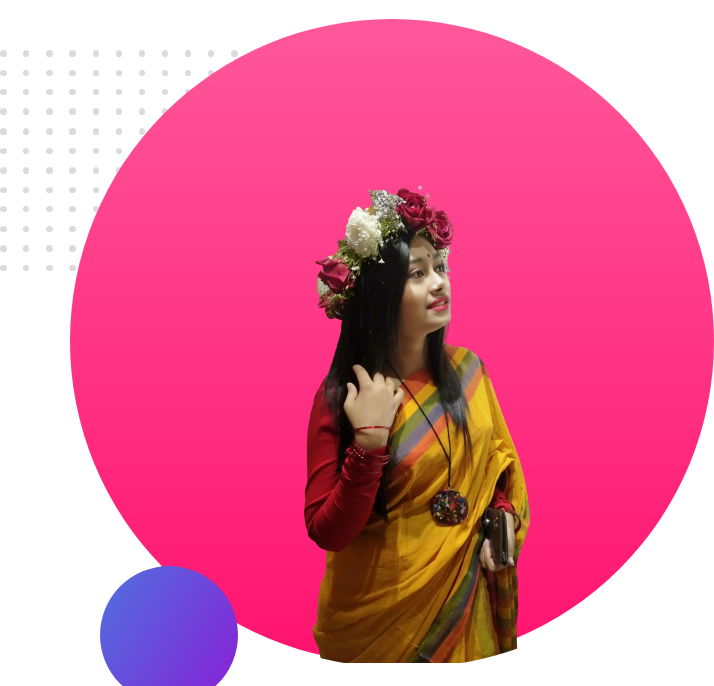
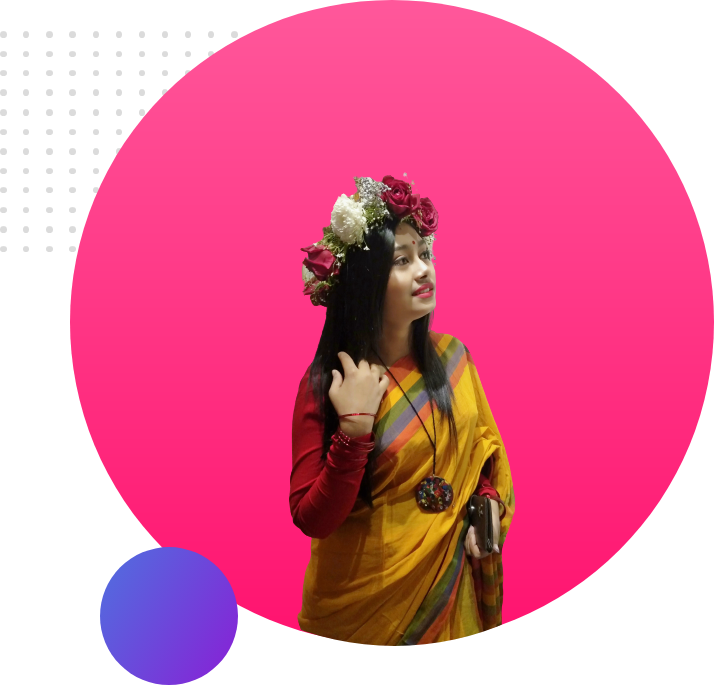
corrected pictures positions

diff --git a/index.html b/index.html
@@ -113,7 +113,7 @@
       <div id="paper1" class="container pb-3  animate__animated animate__backInDown color mb-3">
         <div class="row g-0">
           <div class="col-lg-3 mt-3 ">
-            <img class="image-1" src="images/pic-2.png" alt="">
+            <img class="image-1 custom-1" src="images/pic-2.png" alt="">
           </div>
           <div class="col-lg-9 ps-3 pt-3 d-flex justify-content-center align-items-center pt-3  mt-5 ps-5">
             <div class="text-break">
@@ -164,7 +164,7 @@
       <div id="paper2" class="container pb-3  animate__animated animate__backInDown color mb-3">
         <div class="row g-0">
           <div class="col-lg-3 mt-3 ">
-            <img class="image-1" src="images/pic-3.png" alt="">
+            <img class="image-1 custom-2" src="images/pic-3.png" alt="">
           </div>
           <div class="col-lg-9 ps-3 pt-3 d-flex justify-content-center align-items-center  pt-3  mt-5 ps-5">
             <div>
@@ -194,7 +194,7 @@
       <div id="paper3" class="container pb-3  animate__animated animate__backInDown color mb-3">
         <div class="row g-0">
           <div class="col-lg-3 mt-3 ">
-            <img class="image-1" src="images/pic-4.png" alt="">
+            <img class="image-1 custom-3" src="images/pic-4.png" alt="">
           </div>
           <div class="col-lg-9 ps-3 pt-3 d-flex justify-content-center align-items-center pt-3  mt-5 ps-5">
             <div class="text-break">
@@ -221,8 +221,8 @@
     <section id="research-paper paper4 ">
       <div id="paper4" class="container pb-3  animate__animated animate__backInDown color mb-3">
         <div class="row g-0">
-          <div class="col-lg-3 mt-3 ">
-            <img class="image-1" src="images/pic-5.png" alt="">
+          <div class="col-lg-3 mt-3">
+            <img class="image-1 custom-4" src="images/pic-5.png" alt="">
           </div>
           <div class="col-lg-9 ps-3 pt-3 d-flex justify-content-center align-items-center pt-3  mt-5 ps-5">
             <div class="text-break">

diff --git a/style.css b/style.css
@@ -43,6 +43,19 @@ body{
 }
 .image-1{
   width:100%;
+  
+}
+.custom-4{
+  margin-top:12rem;
+}
+.custom-3{
+  margin-top:4rem;
+}
+.custom-2{
+margin-top:5rem;
+}
+.custom-1{
+margin-top:9rem;
 }
 .footer{
   background-color: black;
@@ -57,6 +70,7 @@ body{
 }
 .custom-card{
   transition: transform 1s linear 0.2s;
+  box-shadow: 10px 10px  5px grey;
 }
 .custom-card:hover{
   transform: translateY(-3rem)
